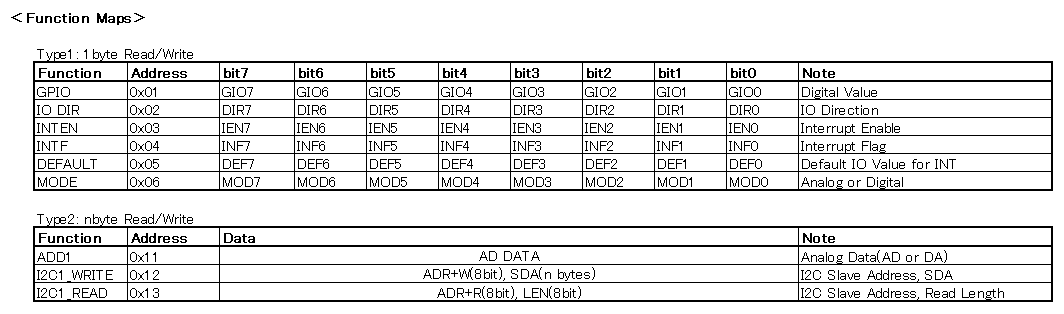
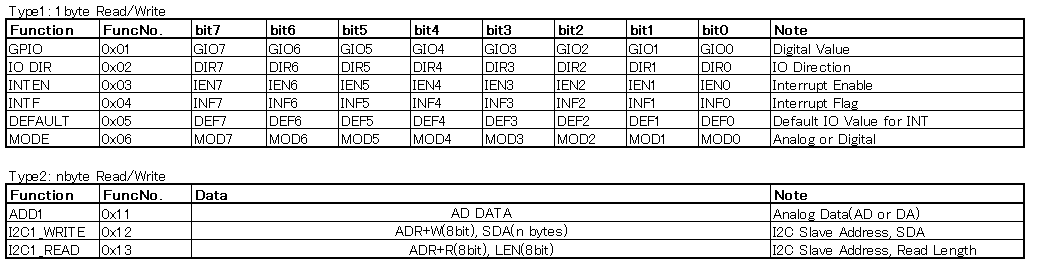
update README(Transfer format)

Changed region(s): [[0.0, 0.0295, 1.0, 0.9742]]

diff --git a/README.md b/README.md
@@ -28,12 +28,11 @@ IO Expander Device Arduino Firmware with UART
 ### Sequences 
 <img width="80%" src="./img/TransferSequence.png" />  
 
- * DATA is 8bit  
- * First DATA is Function Address  
- * ADR1 : 0x1D( 7bit ), ADR2 : 0x1E( 7bit ), W=0b0, R=0b1  
- * ACK : 0x06, ACK:0x15  
+ * Preamble is 0x5A(7bit)  
+ * Size is 8bit 
+ * ACK : 0x06, NACK:0x15  
 
 ### Function Maps 
 <img width="80%" src="./img/FunctionMaps.png" />  
 
- * Reading I2C Data: Write sequence(Slave Address, Read Size) -> Read Sequence  
+ * Reading I2C Data: Write sequence(Write Slave Address, Read Length) -> Read Sequence 
